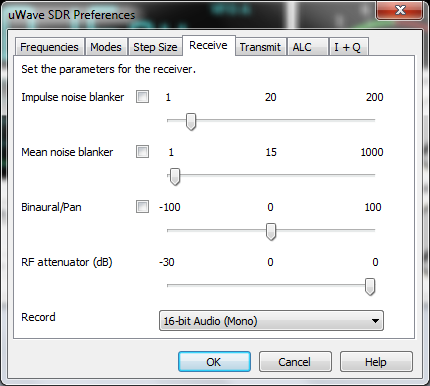
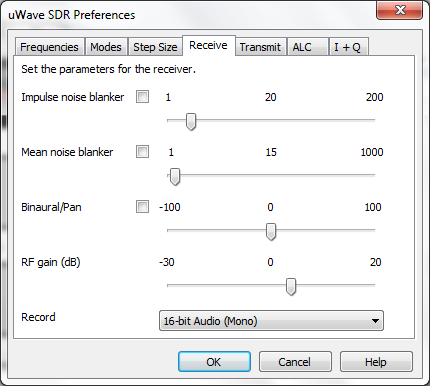
Fix swapIQ and convert RF attenuator to RF gain.

diff --git a/trunk/Software/Help/UWSDR/ReceivePref.htm b/trunk/Software/Help/UWSDR/ReceivePref.htm
@@ -5,7 +5,7 @@
 <body>
 <p><img src="ReceivePref.png" width="430" height="386" /></p>
 <p>This screen handles the less commonly required settings for the receiver. These are the settings for two different noise blankers, one for impulse noise (Impulse Noise Blanker) and a more general noise blanker (Mean Noise Blanker). Both of these may be enabled with the buttons to the left of the slide controls.</p>
-<p>The amount of attenuation ahead of the IF strip may also be set here. With the attenuation set to it's rightmost position there is no attenuation whereas the leftmost position is maximum attenuation which is 30dB. This control operates in real-time so its effects can be seen, however only by pressing the OK button will the changed value by stored.</p>
+<p>The amount of gain ahead of the IF strip may also be set here. The gain may be set between -30 dB through to 20 dB, with 0 dB representing no gain. This control operates in real-time so its effects can be seen, however only by pressing the OK button will the changed value by stored.</p>
 <p>The DSP core of the GUI allows for the use of binaural reception whereby slightly different signals are sent to each ear with stereo headphones. This option may be set here, as well as controlling how the signals are split, using the slider to shift from left to right, or back again.</p>
 <p>There is an option to record the received signal of the SDR on the main menu. By default this is the received audio, recorded as a WAV file in 16-bit mono, however it is also possible to save the raw I/Q data from the hardware as a 32-bit stereo signal, with the left channel being the Quadrature and the right the In-phase element. Also it is possible to record the audio as 16-bit stereo which is useful when using binaural reception.</p>
 </body>

diff --git a/trunk/Software/UWSDRGUI/UWSDRPreferences.cpp b/trunk/Software/UWSDRGUI/UWSDRPreferences.cpp
@@ -199,7 +199,7 @@ m_clockTune(NULL)
 	m_panValue->SetValue(m_parameters->m_pan);
 
 	// Map 500 -> 1000 to -30 -> 0
-	unsigned int val = (unsigned int)(20.0 * ::log10(double(m_parameters->m_rfGain) / 1000.0) + 0.5);
+	unsigned int val = (unsigned int)(10.0 * ::log10(double(m_parameters->m_rfGain) / 1000.0) + 0.5);
 	m_rfValue->SetValue(val);
 
 	m_spButton->SetValue(m_parameters->m_spOn);
@@ -547,7 +547,7 @@ void CUWSDRPreferences::onOK(wxCommandEvent& WXUNUSED(event))
 
 	// Map -30 -> 0 to 1 -> 1000
 	double gainDb = double(m_rfValue->GetValue());
-	m_parameters->m_rfGain    = (unsigned int)(1000.0 * ::pow(10.0, gainDb / 20.0) + 0.5);
+	m_parameters->m_rfGain    = (unsigned int)(1000.0 * ::pow(10.0, gainDb / 10.0) + 0.5);
 
 	m_parameters->m_spOn         = m_spButton->IsChecked();
 	m_parameters->m_spValue      = m_spValue->GetValue();
@@ -918,13 +918,13 @@ wxPanel* CUWSDRPreferences::createReceiveTab(wxNotebook* noteBook)
 	m_panValue = new wxSlider(panel, -1, 0, -100, 100, wxDefaultPosition, wxSize(SLIDER_WIDTH, -1), wxSL_HORIZONTAL | wxSL_LABELS | wxSL_BOTTOM);
 	sizer->Add(m_panValue, 0, wxALL, BORDER_SIZE);
 
-	wxStaticText* rfLabel = new wxStaticText(panel, -1, _("RF attenuator (dB)"));
+	wxStaticText* rfLabel = new wxStaticText(panel, -1, _("RF gain (dB)"));
 	sizer->Add(rfLabel, 0, wxALL, BORDER_SIZE);
 
 	wxStaticText* dummy1 = new wxStaticText(panel, -1, wxEmptyString);
 	sizer->Add(dummy1, 0, wxALL, BORDER_SIZE);
 
-	m_rfValue = new wxSlider(panel, RXRF_GAIN, 0, -30, 0, wxDefaultPosition, wxSize(SLIDER_WIDTH, -1), wxSL_HORIZONTAL | wxSL_LABELS | wxSL_BOTTOM);
+	m_rfValue = new wxSlider(panel, RXRF_GAIN, 0, -30, 20, wxDefaultPosition, wxSize(SLIDER_WIDTH, -1), wxSL_HORIZONTAL | wxSL_LABELS | wxSL_BOTTOM);
 	sizer->Add(m_rfValue, 0, wxALL, BORDER_SIZE);
 
 	wxStaticText* rawLabel1 = new wxStaticText(panel, -1, _("Record"));

diff --git a/trunk/Software/DttSP++/Meter.cpp b/trunk/Software/DttSP++/Meter.cpp
@@ -3,7 +3,7 @@
 This file is part of a program that implements a Software-Defined Radio.
 
 Copyright (C) 2004, 2005, 2006 by Frank Brickle, AB2KT and Bob McGwier, N4HY
-Copyright (C) 2006-2008 by Jonathan Naylor, G4KLX
+Copyright (C) 2006-2008,2013 by Jonathan Naylor, G4KLX
 
 This program is free software; you can redistribute it and/or modify
 it under the terms of the GNU General Public License as published by

diff --git a/trunk/Software/DttSP++/Spectrum.cpp b/trunk/Software/DttSP++/Spectrum.cpp
@@ -3,7 +3,7 @@
 This file is part of a program that implements a Software-Defined Radio.
 
 Copyright (C) 2004, 2005, 2006 by Frank Brickle, AB2KT and Bob McGwier, N4HY
-Copyright (C) 2006-2008 by Jonathan Naylor, G4KLX
+Copyright (C) 2006-2008,2013 by Jonathan Naylor, G4KLX
 
 This program is free software; you can redistribute it and/or modify
 it under the terms of the GNU General Public License as published by

diff --git a/trunk/Software/Common/SDRDescrFile.cpp b/trunk/Software/Common/SDRDescrFile.cpp
@@ -95,7 +95,7 @@ m_valid(false)
 				unsigned long temp;
 				line.Mid(12).ToULong(&temp);
 				m_receiveOnly = temp == 1L;
-			} else if (line.Left(12).Cmp(wxT("swapIQ=")) == 0) {
+			} else if (line.Left(7).Cmp(wxT("swapIQ=")) == 0) {
 				unsigned long temp;
 				line.Mid(7).ToULong(&temp);
 				m_swapIQ = temp == 1L;

diff --git a/trunk/Software/UWSDRGUI/DSPControl.cpp b/trunk/Software/UWSDRGUI/DSPControl.cpp
@@ -724,7 +724,7 @@ void CDSPControl::setRecordOff()
 void CDSPControl::scaleBuffer(float* buffer, unsigned int nSamples, float scale, bool swap)
 {
 	wxASSERT(buffer != NULL);
-	wxASSERT(scale >= 0.0 && scale <= 1.0);
+	wxASSERT(scale >= 0.0);
 
 	if (swap) {
 		for (unsigned int i = 0; i < nSamples; i++) {

diff --git a/trunk/Software/Common/Common.h b/trunk/Software/Common/Common.h
@@ -24,7 +24,7 @@
 
 const wxString VERSION  = wxT("uWave SDR 0.9.1");
 
-const wxDateTime::wxDateTime_t REL_DATE_DAY   = 15;
+const wxDateTime::wxDateTime_t REL_DATE_DAY   = 16;
 const wxDateTime::Month        REL_DATE_MONTH = wxDateTime::Oct;
 const unsigned int             REL_DATE_YEAR  = 2013;
 
